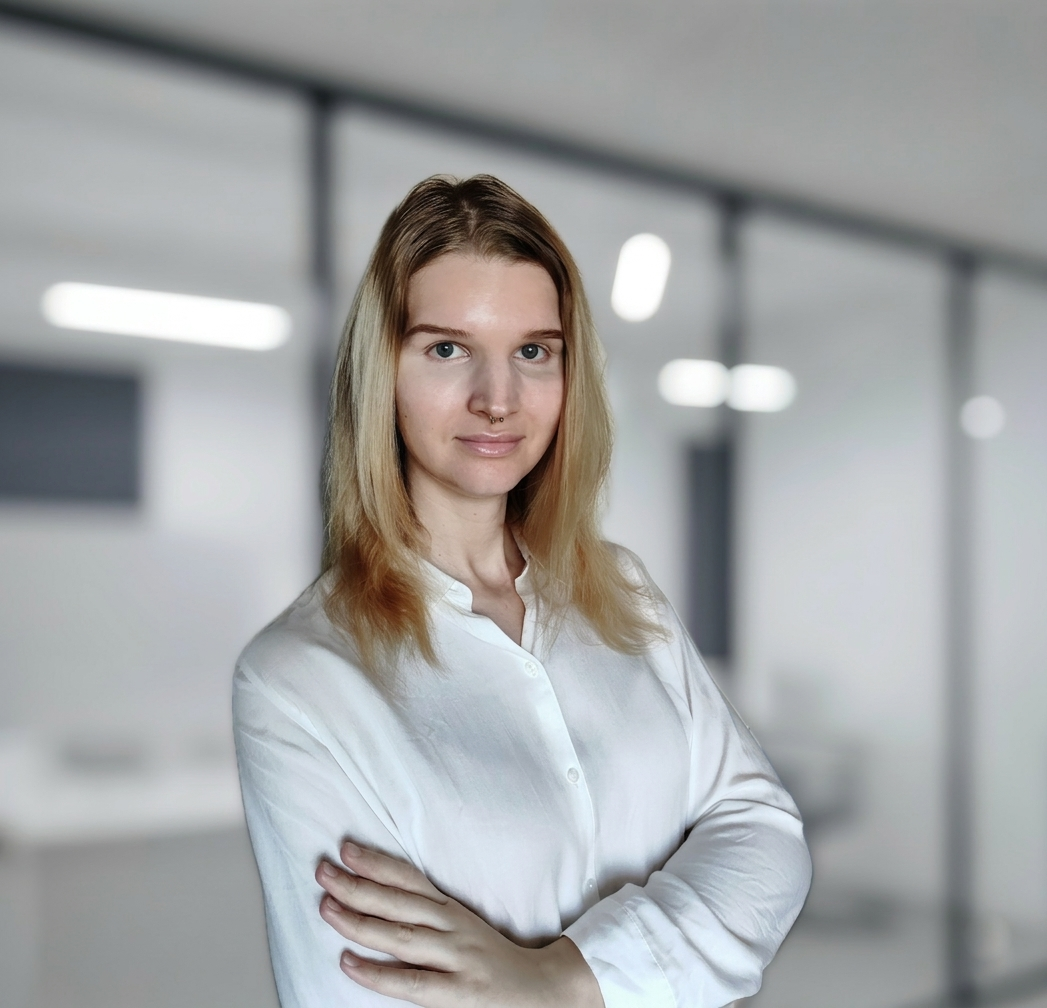
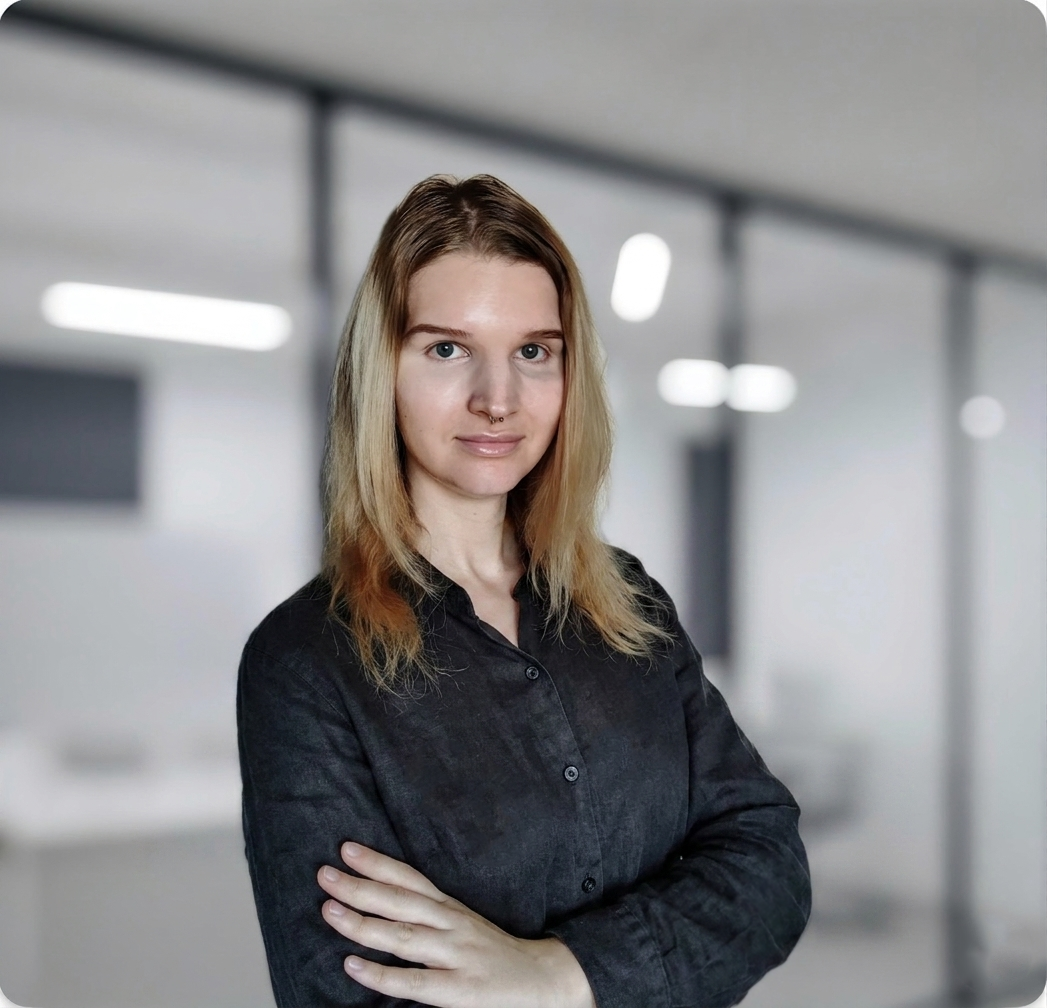
New hero photo. Gtag replaced for Vercel Web Analytics.

diff --git a/frontend/src/app/layout.tsx b/frontend/src/app/layout.tsx
@@ -1,6 +1,6 @@
 import './globals.css'; 
 import { LanguageProvider } from '../context/LanguageContext';
-import Script from 'next/script'
+import { Analytics } from "@vercel/analytics/react";
 
 // Import lettertypes
 import { Geist, DM_Sans } from 'next/font/google';
@@ -16,7 +16,7 @@ const DMSans = DM_Sans({
 });
 
 export const metadata = {
-  title: 'Patricia Parsa | Portfolio',
+  title: 'Patricia Podhradska | Portfolio',
   description: 'Ik ben Patricia, front-end developer.',
 };
 
@@ -32,27 +32,7 @@ export default function RootLayout({
           {children}
         </LanguageProvider>
 
-        <Script
-          src="https://www.googletagmanager.com/gtag/js?id=G-PV3TGTXEZQ"
-          strategy="afterInteractive"
-        />
-        <Script id="google-analytics" strategy="afterInteractive">
-          {`
-            window.dataLayer = window.dataLayer || [];
-            function gtag(){dataLayer.push(arguments);}
-
-            // Set default consent to denied before GA loads
-            gtag('consent', 'default', {
-              'analytics_storage': 'denied',
-              'ad_storage': 'denied',
-            });
-
-            gtag('js', new Date());
-            gtag('config', 'G-PV3TGTXEZQ', {
-              'anonymize_ip': true
-            });
-          `}
-        </Script>
+        <Analytics />
       </body>
     </html>
   );
